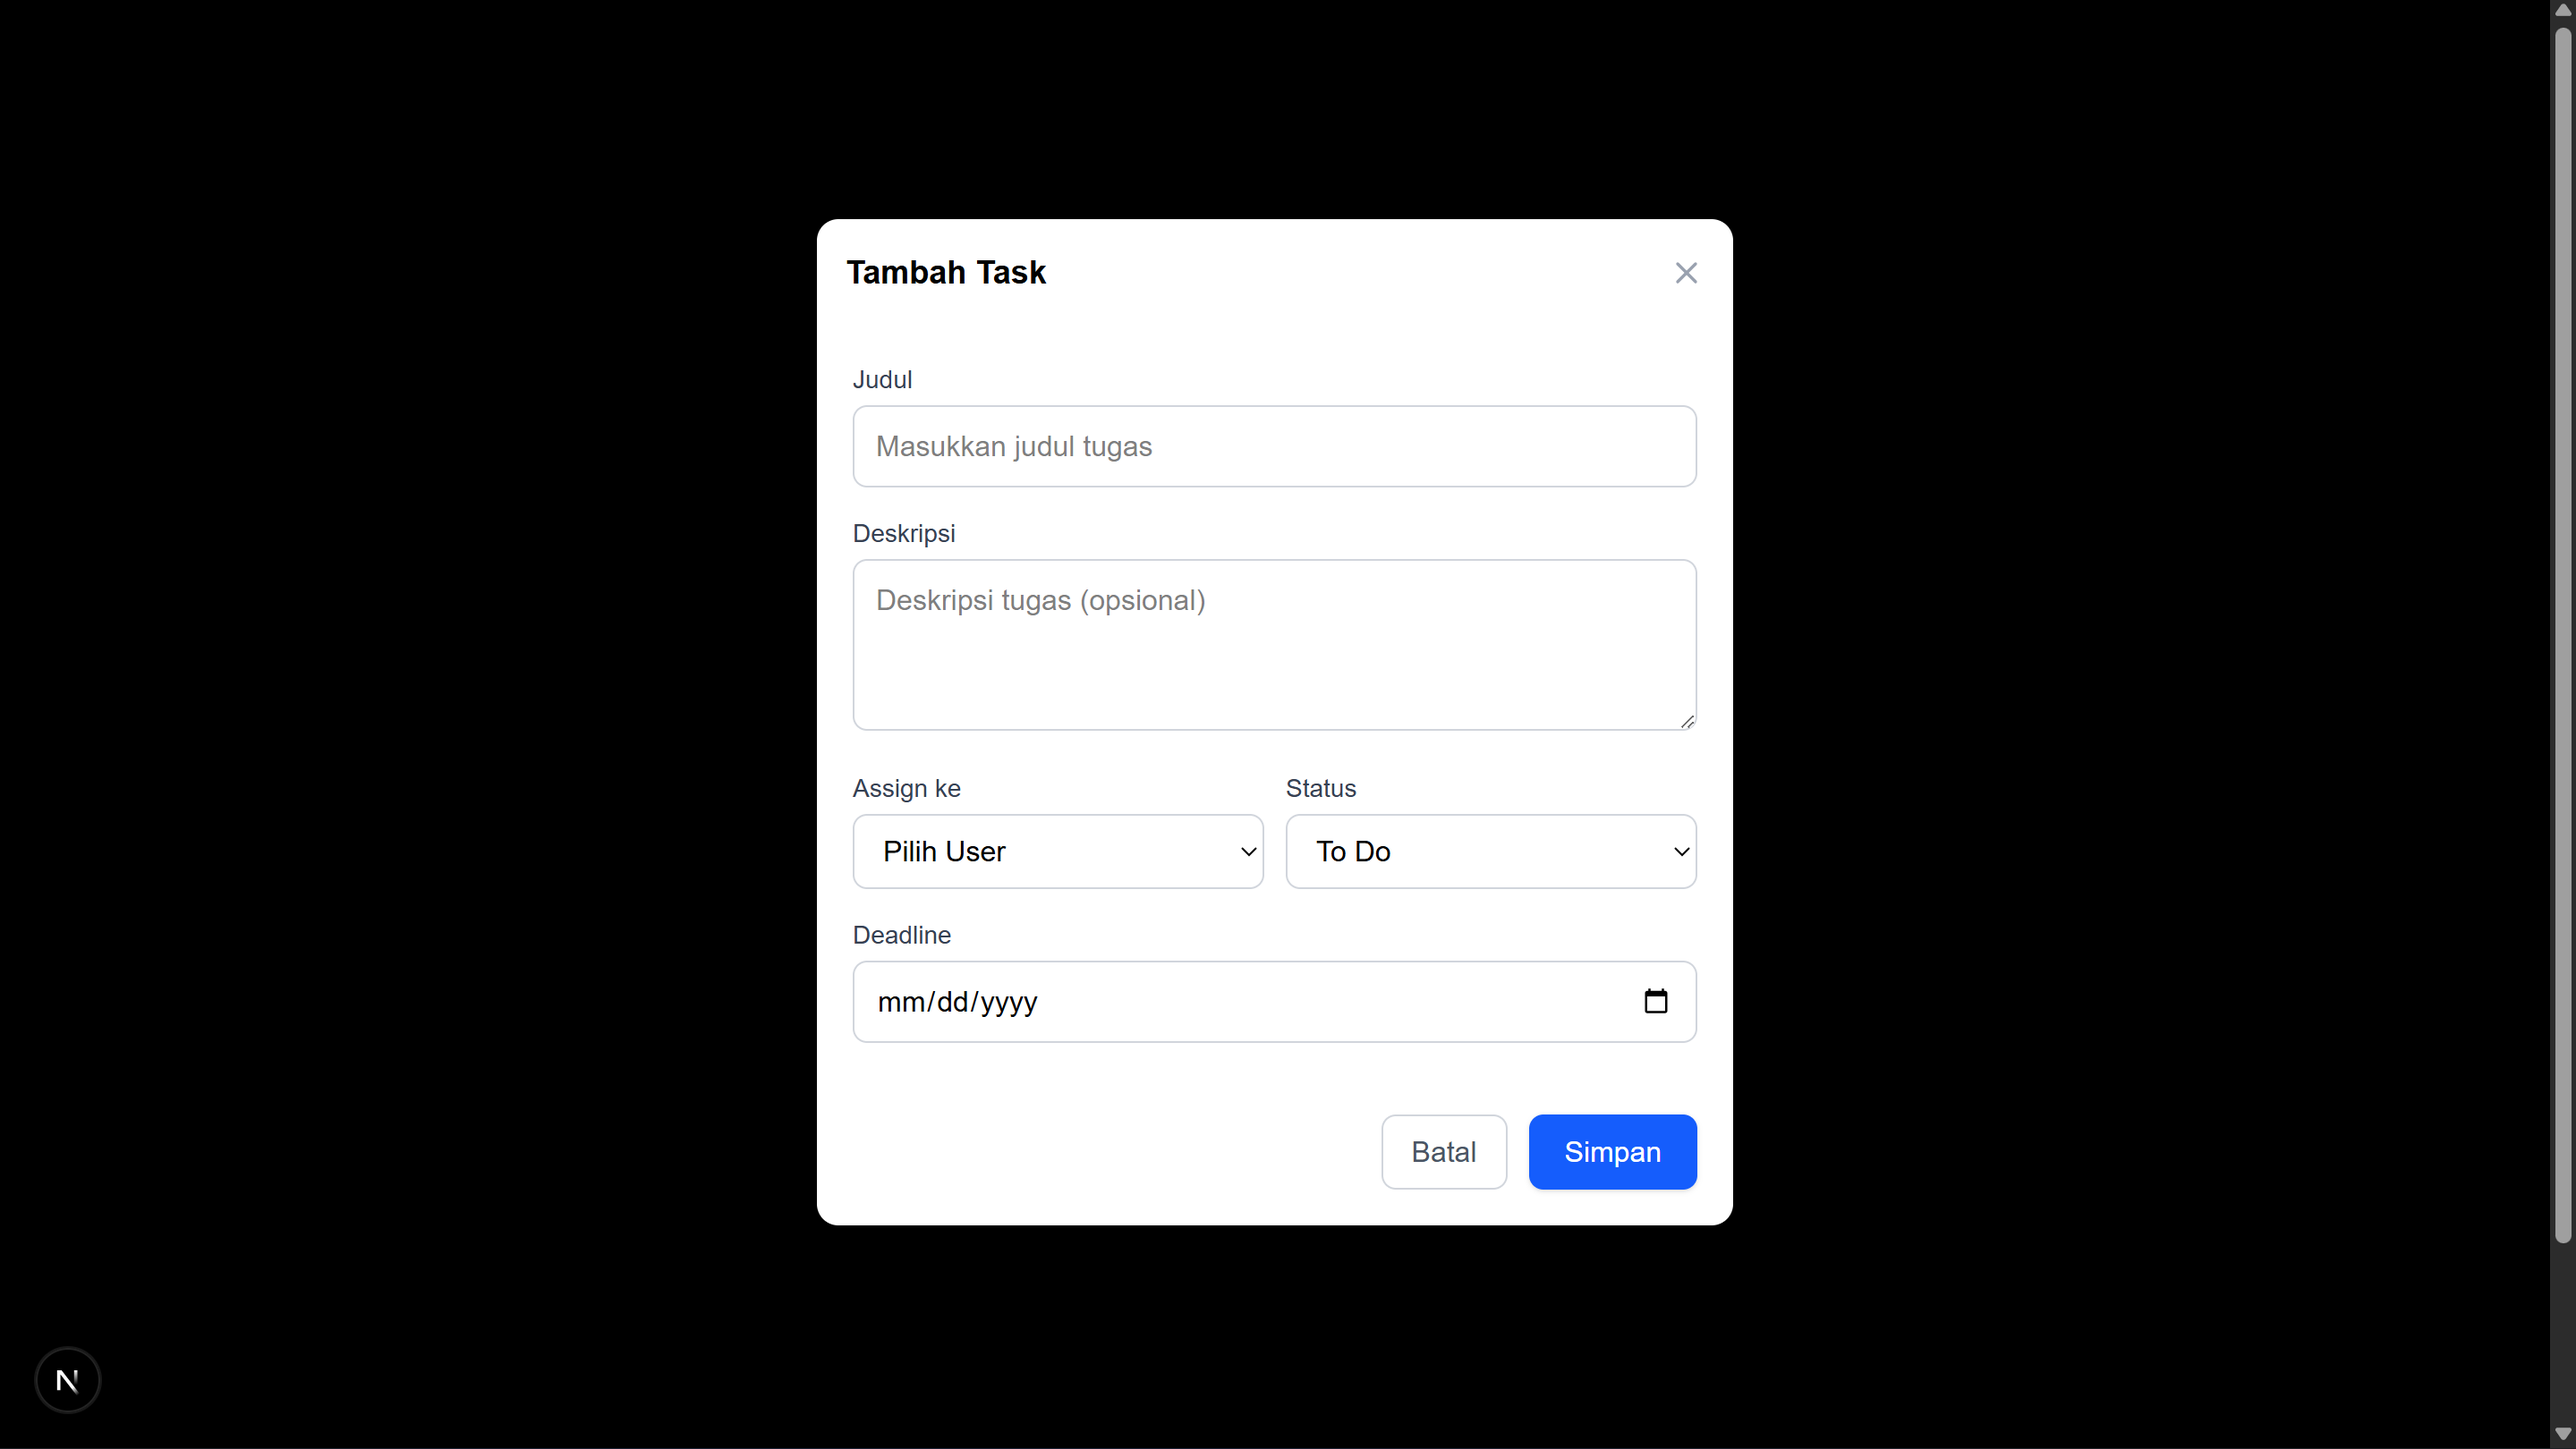
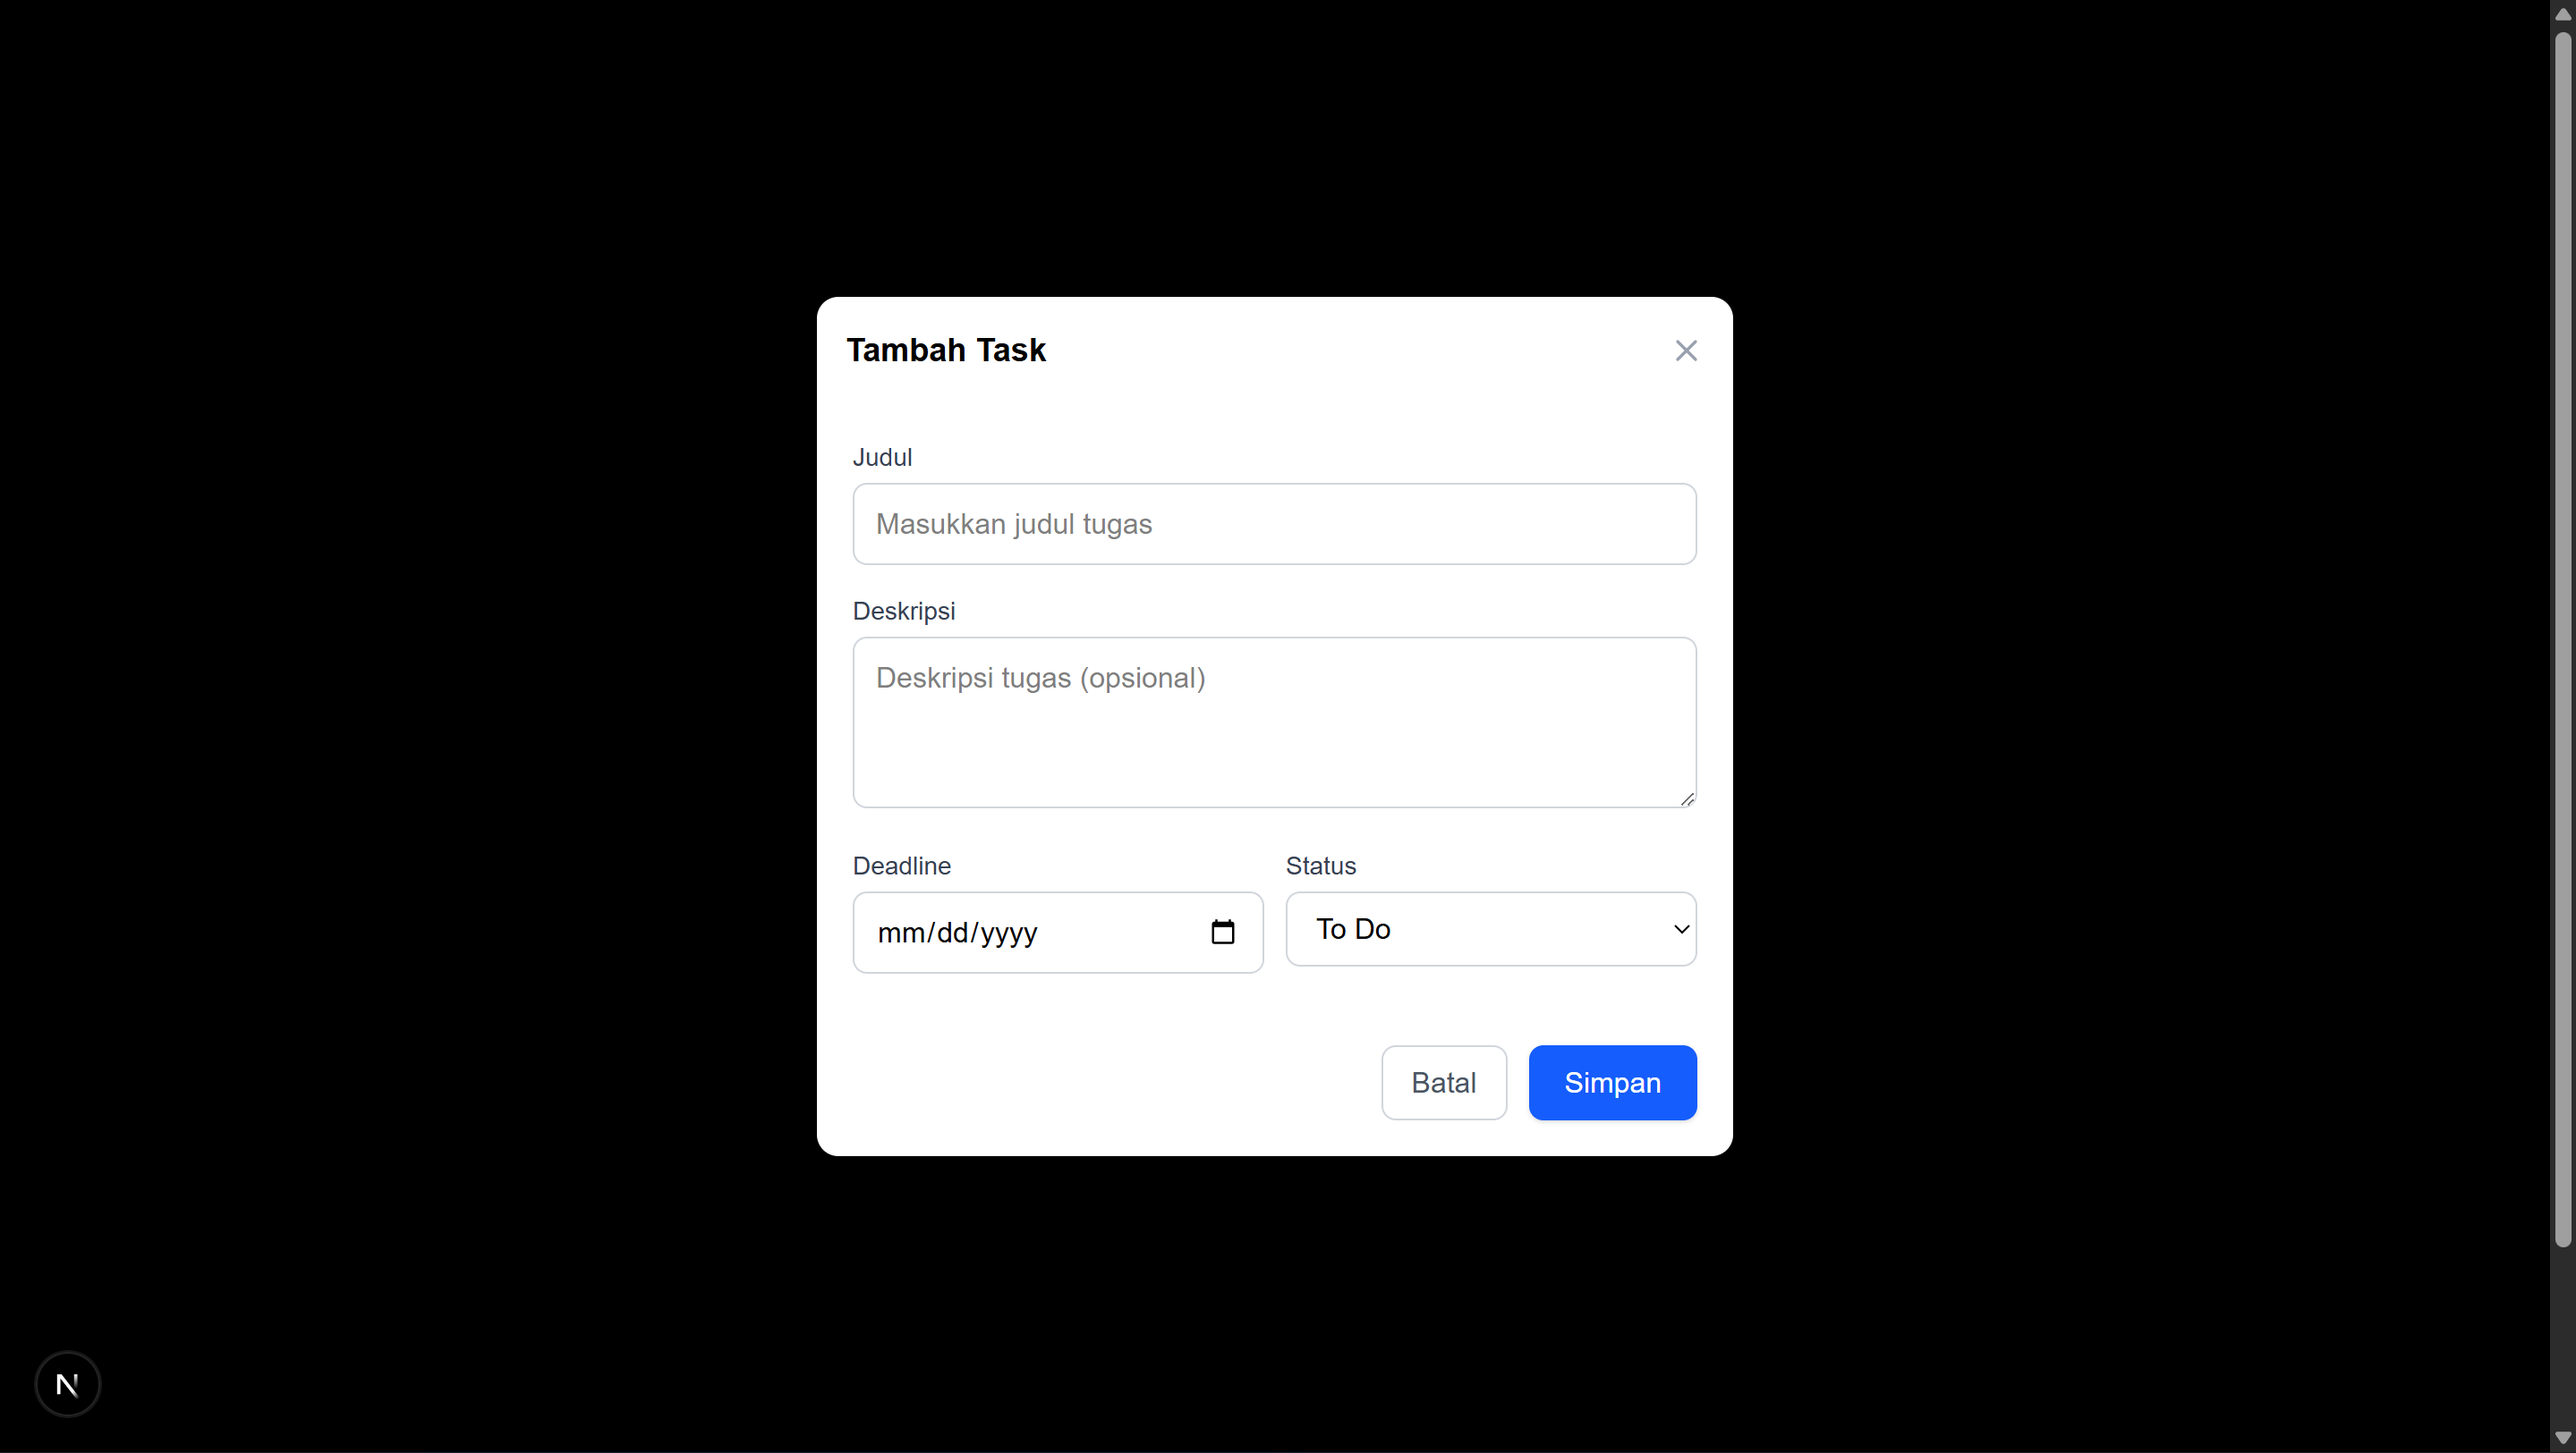
update logic assign task to user

diff --git a/frontend/src/app/(dashboard)/task/page.tsx b/frontend/src/app/(dashboard)/task/page.tsx
@@ -72,7 +72,6 @@ export default function TaskPage() {
 
   const [title, setTitle] = useState<string>("");
   const [description, setDescription] = useState<string>("");
-  const [assignedTo, setAssignedTo] = useState<number>(0);
   const [status, setStatus] = useState<TaskStatus>("todo");
   const [deadline, setDeadline] = useState<string>("");
 
@@ -107,7 +106,6 @@ export default function TaskPage() {
   const resetForm = () => {
     setTitle("");
     setDescription("");
-    setAssignedTo(0);
     setStatus("todo");
     setDeadline("");
     setSelectedTask(null);
@@ -140,7 +138,6 @@ export default function TaskPage() {
     try {
       setSaving(true);
       const payload = {
-        user_id: assignedTo,
         title,
         description,
         status,
@@ -169,7 +166,6 @@ export default function TaskPage() {
     setSelectedTask(task);
     setTitle(task.title);
     setDescription(task.description);
-    setAssignedTo(task.user_id ?? 0);
     setStatus(task.status);
     setDeadline(task.deadline || "");
     setShowFormModal(true);
@@ -265,7 +261,7 @@ export default function TaskPage() {
               Tambahkan task pertama Anda untuk memulai 🚀
             </p>
             <p className="text-gray-400 text-sm">
-              Task yang anda buat atau yang di assign ke anda akan muncul di sini.
+              Task yang anda buat akan muncul di sini.
             </p>
           </div>
         ) : (
@@ -365,7 +361,7 @@ export default function TaskPage() {
           </div>
   
           <div className="grid grid-cols-1 sm:grid-cols-2 gap-3">
-            <div>
+            {/* <div>
               <label className="block text-sm text-gray-700 mb-1">Assign ke</label>
               <select
                 value={assignedTo ?? ""}
@@ -379,6 +375,15 @@ export default function TaskPage() {
                   </option>
                 ))}
               </select>
+            </div> */}
+            <div>
+              <label className="block text-sm text-gray-700 mb-1">Deadline</label>
+              <input
+                type="date"
+                value={deadline}
+                onChange={(e) => setDeadline(e.target.value)}
+                className="w-full border border-gray-300 rounded-lg px-3 py-2.5 focus:ring-2 focus:ring-blue-400 outline-none transition"
+              />
             </div>
   
             <div>
@@ -393,16 +398,6 @@ export default function TaskPage() {
                 <option value="done">Done</option>
               </select>
             </div>
-          </div>
-  
-          <div>
-            <label className="block text-sm text-gray-700 mb-1">Deadline</label>
-            <input
-              type="date"
-              value={deadline}
-              onChange={(e) => setDeadline(e.target.value)}
-              className="w-full border border-gray-300 rounded-lg px-3 py-2.5 focus:ring-2 focus:ring-blue-400 outline-none transition"
-            />
           </div>
         </div>
   

diff --git a/frontend/src/services/task.ts b/frontend/src/services/task.ts
@@ -4,7 +4,6 @@ import { TaskStatus } from "@/types/task-status";
 const API_URL = process.env.NEXT_PUBLIC_API_URL;
 
 interface Payload {
-  user_id: number, 
   title: string, 
   description: string,
   status: TaskStatus,

diff --git a/backend/app/Http/Controllers/Api/TaskController.php b/backend/app/Http/Controllers/Api/TaskController.php
@@ -23,10 +23,7 @@ class TaskController extends Controller
             }
 
             $query = Task::with(['user', 'createdBy'])
-                ->where(function ($q) {
-                    $q->where('created_by', Auth::id())
-                      ->orWhere('user_id', Auth::id());
-                });
+                ->where('user_id', Auth::id());
 
             if (!empty($status) && in_array(strtolower($status), ['todo', 'in_progress', 'done'])) {
                 $query->where('status', $status);
@@ -44,7 +41,6 @@ class TaskController extends Controller
     {
         try {
             $validated = $request->validate([
-                'user_id'     => 'required|exists:users,id',
                 'title'       => 'required|string|max:255',
                 'description' => 'nullable|string',
                 'status'      => 'required|in:todo,in_progress,done',
@@ -52,7 +48,7 @@ class TaskController extends Controller
             ]);
 
             $task = Task::create([
-                'user_id'     => $validated['user_id'],
+                'user_id'     => Auth::id(),
                 'title'       => $validated['title'],
                 'description' => $validated['description'] ?? null,
                 'status'      => $validated['status'],
@@ -71,17 +67,13 @@ class TaskController extends Controller
     public function update(Request $request, $id)
     {
         try {
-            $task = Task::where(function ($q) {
-                $q->where('created_by', Auth::id())
-                  ->orWhere('user_id', Auth::id());
-            })->where('id', $id)->first();
+            $task = Task::where('user_id', Auth::id())->where('id', $id)->first();
 
             if (!$task) {
                 return ApiResponse::error('Not Found', 404, 'Task tidak ditemukan');
             }
 
             $validated = $request->validate([
-                'user_id'     => 'required|exists:users,id',
                 'title'       => 'required|string|max:255',
                 'description' => 'nullable|string',
                 'status'      => 'required|in:todo,in_progress,done',
@@ -101,10 +93,7 @@ class TaskController extends Controller
     public function delete($id)
     {
         try {
-            $task = Task::where(function ($q) {
-                $q->where('created_by', Auth::id())
-                  ->orWhere('user_id', Auth::id());
-            })->where('id', $id)->first();
+            $task = Task::where('user_id', Auth::id())->first();
 
             if (!$task) {
                 return ApiResponse::error('Not Found', 404, 'Task tidak ditemukan');
